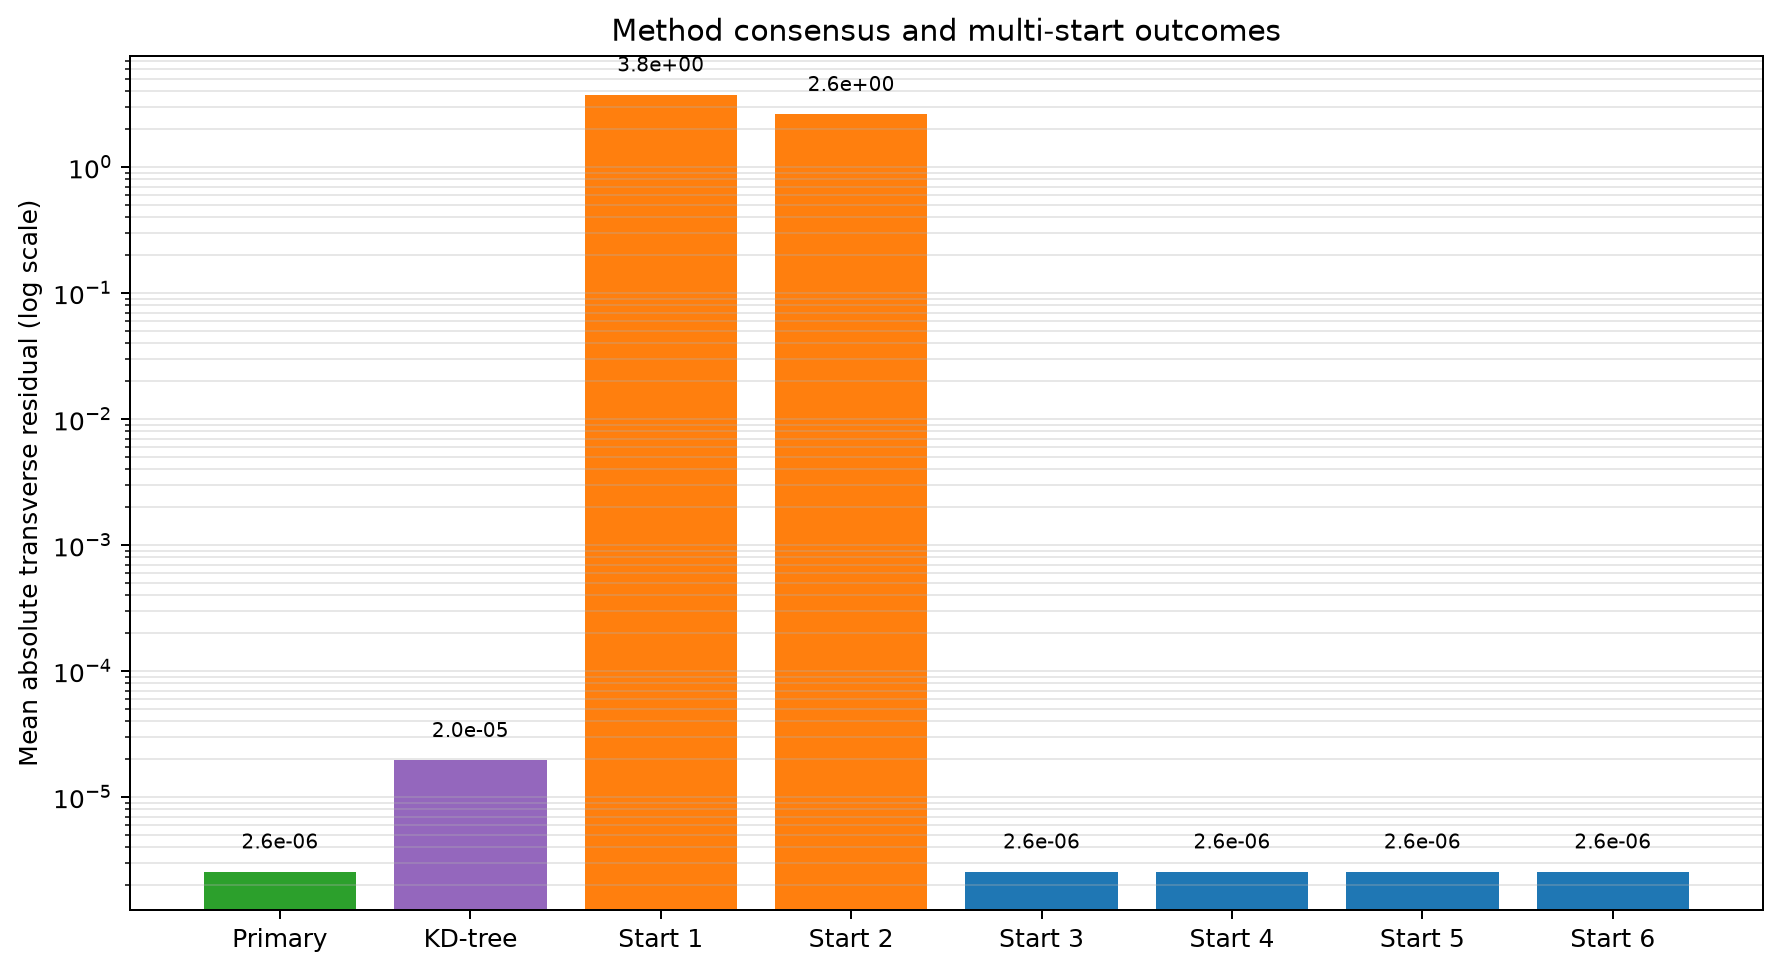
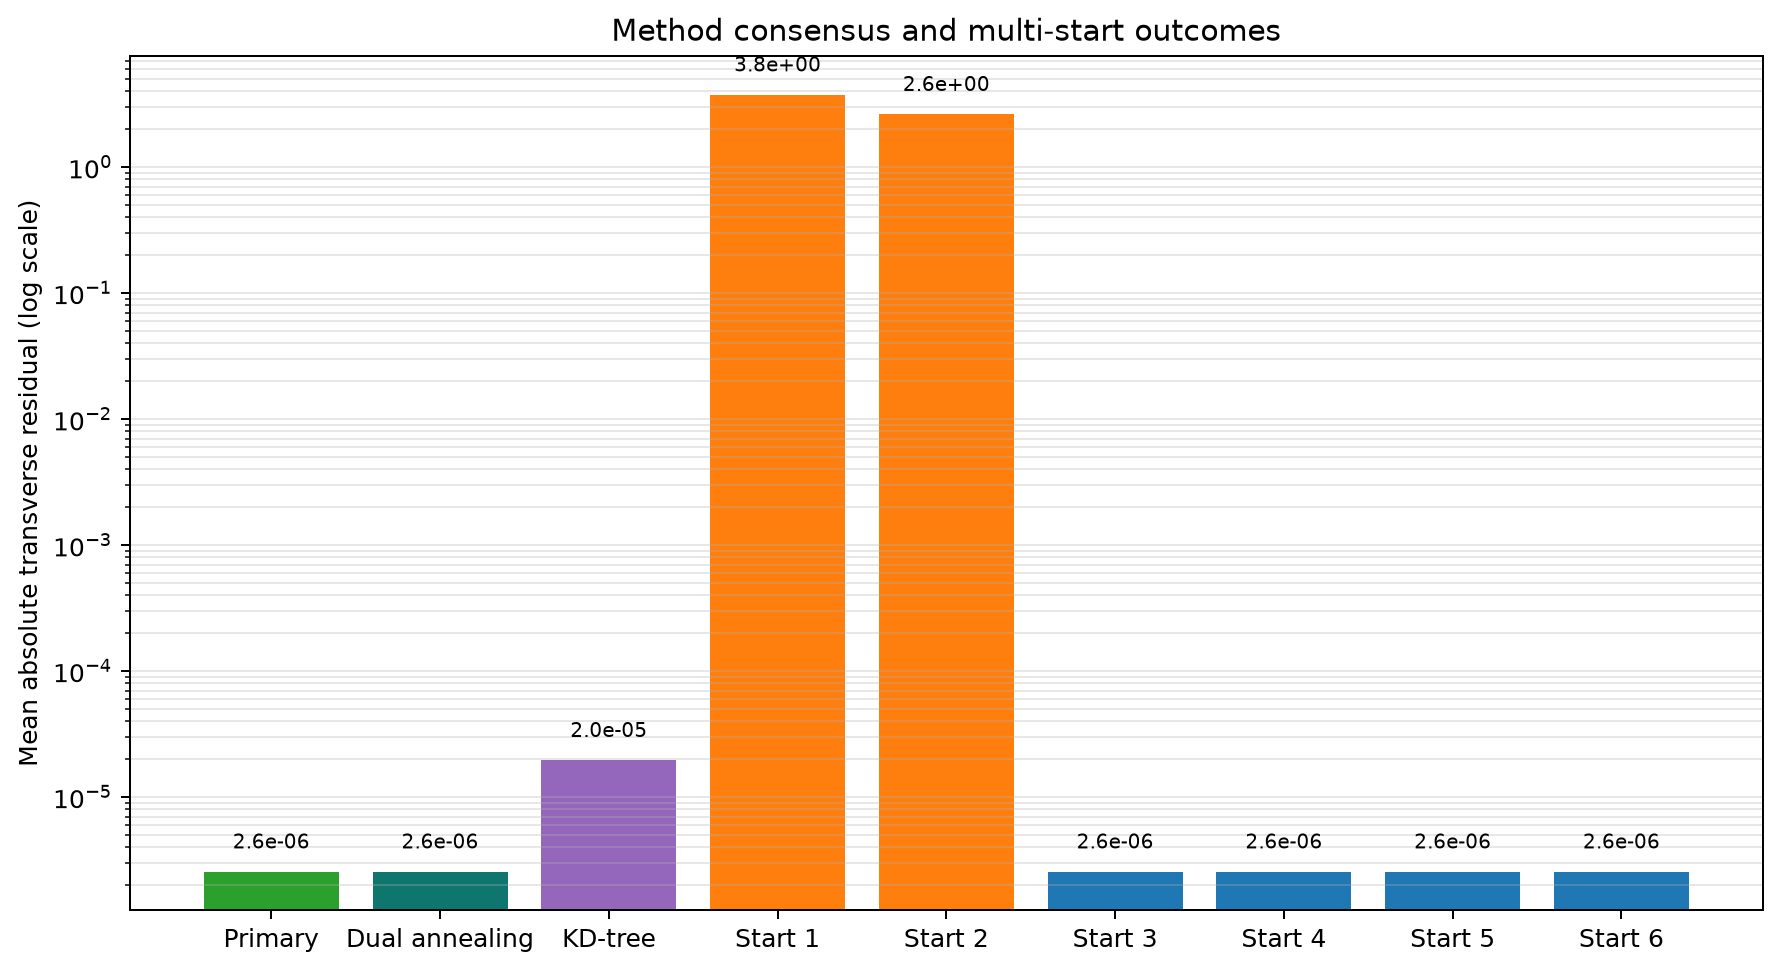
Add automated test suite (formula, synthetic recovery, regression) and second independent global optimizer for cross-validation

diff --git a/src/fit_curve.py b/src/fit_curve.py
@@ -24,7 +24,7 @@ import matplotlib
 matplotlib.use("Agg")
 import matplotlib.pyplot as plt
 import numpy as np
-from scipy.optimize import differential_evolution, least_squares, minimize_scalar
+from scipy.optimize import differential_evolution, dual_annealing, least_squares, minimize_scalar
 from scipy.spatial import cKDTree
 
 
@@ -167,7 +167,28 @@ def closed_form_loss(parameters: np.ndarray, data: np.ndarray) -> float:
     return float(np.mean(np.abs(residuals)))
 
 
-def fit_primary_de_rotation(data: np.ndarray, seed: int = 2026, initial_theta: float | None = None) -> tuple[np.ndarray, float]:
+def polish_closed_form_solution(initial_parameters: np.ndarray, data: np.ndarray) -> tuple[np.ndarray, float]:
+    """Polish a global-search candidate with bounded least squares on closed-form residuals."""
+    lower_bounds = [b[0] for b in BOUNDS]
+    upper_bounds = [b[1] for b in BOUNDS]
+
+    def residual_vector(p: np.ndarray) -> np.ndarray:
+        return recover_t_and_residuals(p, data)[1]
+
+    result = least_squares(
+        residual_vector,
+        x0=initial_parameters,
+        bounds=(lower_bounds, upper_bounds),
+        ftol=1e-15,
+        xtol=1e-15,
+        gtol=1e-15,
+    )
+    return result.x, float(np.mean(np.abs(result.fun)))
+
+
+def fit_primary_de_rotation(
+    data: np.ndarray, seed: int = 2026, initial_theta: float | None = None, maxiter: int = 300
+) -> tuple[np.ndarray, float]:
     """Primary Fit: Global Differential Evolution + Non-linear Least-Squares polish on closed-form residuals.
 
     Parameters
@@ -186,29 +207,28 @@ def fit_primary_de_rotation(data: np.ndarray, seed: int = 2026, initial_theta: f
         args=(data,),
         seed=seed,
         popsize=15,
-        maxiter=300,
+        maxiter=maxiter,
         tol=1e-10,
         updating="immediate",
         workers=1,
     )
 
-    lower_bounds = [b[0] for b in BOUNDS]
-    upper_bounds = [b[1] for b in BOUNDS]
+    return polish_closed_form_solution(de_result.x, data)
 
-    def residual_vector(p: np.ndarray) -> np.ndarray:
-        return recover_t_and_residuals(p, data)[1]
 
-    ls_result = least_squares(
-        residual_vector,
-        x0=de_result.x,
-        bounds=(lower_bounds, upper_bounds),
-        ftol=1e-15,
-        xtol=1e-15,
-        gtol=1e-15,
+def fit_dual_annealing_rotation(
+    data: np.ndarray, seed: int = 2026, maxiter: int = 300
+) -> tuple[np.ndarray, float]:
+    """Independent global fit using dual annealing, then the same local least-squares polish."""
+    result = dual_annealing(
+        closed_form_loss,
+        bounds=BOUNDS,
+        args=(data,),
+        seed=seed,
+        maxiter=maxiter,
+        no_local_search=True,
     )
-
-    final_loss = float(np.mean(np.abs(ls_result.fun)))
-    return ls_result.x, final_loss
+    return polish_closed_form_solution(result.x, data)
 
 
 # --- 4. Multi-Start Robustness Check ---
@@ -456,20 +476,24 @@ def main() -> None:
     print(f"Successfully loaded {len(data):,} points from: data/xy_data.csv\n")
 
     # Step 2: Primary Method (Closed-Form Rotation Decoupling)
-    print("[1/4] Running Primary Method: Closed-Form Rotation-Inversion Fit (takes a moment)...")
+    print("[1/5] Running Primary Method: Closed-Form Rotation-Inversion Fit (takes a moment)...")
     pca_theta = estimate_theta_via_pca(data)
     prim_params, prim_loss = fit_primary_de_rotation(data, initial_theta=pca_theta)
 
     # Step 3: Multi-Start Robustness Check
-    print("[2/4] Running Multi-Start Robustness Check (6 diverse parameter regions)...")
+    print("[2/5] Running Multi-Start Robustness Check (6 diverse parameter regions)...")
     multistart_results = run_multistart_robustness_check(data)
 
     # Step 4: Secondary Method (KD-Tree Nearest Neighbor Cross-Check)
-    print("[3/4] Running Secondary Method: KD-Tree (12,000 samples) Cross-Check (takes a moment)...")
+    print("[3/5] Running Independent Global Check: Dual Annealing (takes a moment)...")
+    annealing_params, annealing_loss = fit_dual_annealing_rotation(data)
+
+    # Step 5: Secondary Method (KD-Tree Nearest Neighbor Cross-Check)
+    print("[4/5] Running Secondary Method: KD-Tree (12,000 samples) Cross-Check (takes a moment)...")
     kdt_params, kdt_loss = fit_kdtree(data, n_samples=N_CURVE_SAMPLES)
 
     # Step 5: Verification & Comprehensive Metrics
-    print("[4/4] Computing Comprehensive Fit Metrics & Diagnostics...")
+    print("[5/5] Computing Comprehensive Fit Metrics & Diagnostics...")
     metrics = compute_fit_metrics(data, prim_params, VERIFIED_PARAMETERS)
 
     print("\n" + "=" * 75)
@@ -487,6 +511,8 @@ def main() -> None:
     print(f"   PCA initial theta estimate: {pca_theta:.2f} deg")
     print(f"   Primary DE convergence loss (mean |residual|): {prim_loss:.6e}")
     print(f"   Primary Fitted (theta, M, X): ({prim_params[0]:.6f}, {prim_params[1]:.6f}, {prim_params[2]:.6f})")
+    print(f"   Dual annealing convergence loss (mean |residual|): {annealing_loss:.6e}")
+    print(f"   Dual Annealing Fitted (theta, M, X): ({annealing_params[0]:.6f}, {annealing_params[1]:.6f}, {annealing_params[2]:.6f})")
     print(f"   KD-tree nearest-neighbour Manhattan loss: {kdt_loss:.6e}")
     print(f"   KD-tree Fitted (theta, M, X): ({kdt_params[0]:.6f}, {kdt_params[1]:.6f}, {kdt_params[2]:.6f})")
     print(f"   Uniform-sampled L1 (expected vs fitted): {metrics['uniform_sample_l1_distance']:.6e}")

diff --git a/tests/test_fit_curve.py b/tests/test_fit_curve.py
@@ -1,0 +1,73 @@
+"""Deterministic regression and generalisation checks for the fitting pipeline."""
+
+from __future__ import annotations
+
+import math
+import sys
+from pathlib import Path
+
+import numpy as np
+import pytest
+
+ROOT = Path(__file__).resolve().parents[1]
+sys.path.insert(0, str(ROOT / "src"))
+
+from fit_curve import DATA_PATH, T_MAX, T_MIN, curve_at_t, fit_primary_de_rotation, load_dataset
+
+
+def test_curve_formula_matches_independent_math() -> None:
+    """Check one curve point against a direct stdlib implementation of the equation."""
+    t, theta_deg, m, x_offset = 17.25, 32.5, -0.021, 41.0
+    theta = math.radians(theta_deg)
+    wave = math.exp(m * abs(t)) * math.sin(0.3 * t)
+    expected = np.array([
+        t * math.cos(theta) - wave * math.sin(theta) + x_offset,
+        42.0 + t * math.sin(theta) + wave * math.cos(theta),
+    ])
+    actual = curve_at_t(t, theta_deg, m, x_offset)[0]
+    np.testing.assert_allclose(actual, expected, rtol=0.0, atol=1e-10)
+
+
+def test_real_csv_has_expected_shape_and_finite_plausible_values() -> None:
+    """Guard against a missing, corrupted, or incorrectly parsed assignment dataset."""
+    data = load_dataset(DATA_PATH)
+    assert data.shape == (1_500, 2)
+    assert np.isfinite(data).all()
+    assert data[:, 0].min() > -100 and data[:, 0].max() < 200
+    assert data[:, 1].min() > -100 and data[:, 1].max() < 200
+
+
+def write_synthetic_csv(path: Path, parameters: tuple[float, float, float], seed: int) -> None:
+    """Create an unordered synthetic point cloud using a known parameter set."""
+    rng = np.random.default_rng(seed)
+    t = rng.uniform(T_MIN, T_MAX, size=240)
+    points = curve_at_t(t, *parameters)
+    rng.shuffle(points)
+    np.savetxt(path, points, delimiter=",", header="x,y", comments="")
+
+
+@pytest.mark.parametrize(
+    ("parameters", "seed"),
+    [((12.0, -0.03, 20.0), 17), ((45.0, 0.04, 90.0), 29)],
+)
+def test_closed_form_pipeline_recovers_unseen_synthetic_parameters(
+    tmp_path: Path, parameters: tuple[float, float, float], seed: int
+) -> None:
+    """Recover two non-assignment parameter sets through the actual DE-plus-polish pipeline."""
+    csv_path = tmp_path / "synthetic.csv"
+    write_synthetic_csv(csv_path, parameters, seed)
+    recovered, loss = fit_primary_de_rotation(load_dataset(csv_path), seed=seed, maxiter=160)
+    assert loss < 1e-8
+    assert abs(recovered[0] - parameters[0]) <= 0.1
+    assert abs(recovered[1] - parameters[1]) <= 1e-3
+    assert abs(recovered[2] - parameters[2]) <= 0.5
+
+
+@pytest.mark.slow
+def test_real_data_pipeline_recovers_reported_parameters() -> None:
+    """Catch a regression that changes the established assignment answer."""
+    recovered, loss = fit_primary_de_rotation(load_dataset(DATA_PATH), seed=2026)
+    assert loss < 1e-4
+    assert abs(recovered[0] - 30.0) <= 0.1
+    assert abs(recovered[1] - 0.03) <= 1e-3
+    assert abs(recovered[2] - 55.0) <= 0.5

diff --git a/scripts/generate_visuals.py b/scripts/generate_visuals.py
@@ -20,6 +20,7 @@ from fit_curve import (  # noqa: E402
     VERIFIED_PARAMETERS,
     closed_form_loss,
     curve_points,
+    fit_dual_annealing_rotation,
     fit_kdtree,
     fit_primary_de_rotation,
     load_dataset,
@@ -55,12 +56,13 @@ def main() -> None:
 
     # Evaluate every reported optimizer outcome with the same closed-form residual.
     primary_params, _ = fit_primary_de_rotation(data)
+    annealing_params, _ = fit_dual_annealing_rotation(data)
     kdtree_params, _ = fit_kdtree(data)
     multi = run_multistart_robustness_check(data)
-    labels = ["Primary", "KD-tree"] + [f"Start {i + 1}" for i in range(len(multi))]
-    params = [primary_params, kdtree_params] + [result["fitted"] for result in multi]
+    labels = ["Primary", "Dual annealing", "KD-tree"] + [f"Start {i + 1}" for i in range(len(multi))]
+    params = [primary_params, annealing_params, kdtree_params] + [result["fitted"] for result in multi]
     losses = [closed_form_loss(np.asarray(p), data) for p in params]
-    colors = ["tab:green", "tab:purple"] + ["tab:orange" if loss > 1e-4 else "tab:blue" for loss in losses[2:]]
+    colors = ["tab:green", "#0f766e", "tab:purple"] + ["tab:orange" if loss > 1e-4 else "tab:blue" for loss in losses[3:]]
 
     fig, ax = plt.subplots(figsize=(10, 5.5), dpi=160)
     bars = ax.bar(labels, losses, color=colors)

diff --git a/README.md b/README.md
@@ -8,7 +8,7 @@
 
 ## Contents
 
-[Problem](#problem) · [Approach](#approach) · [Method](#method) · [Validation](#validation) · [Visual Check](#visual-check) · [Interactive Explorer](#interactive-explorer) · [Results](#results) · [Repository Structure](#repository-structure) · [Setup](#setup--execution)
+[Problem](#problem) · [Approach](#approach) · [Method](#method) · [Validation](#validation) · [Visual Check](#visual-check) · [Interactive Explorer](#interactive-explorer) · [Results](#results) · [Repository Structure](#repository-structure) · [Tests](#tests) · [Setup](#setup--execution)
 
 ## Problem
 
@@ -65,6 +65,7 @@ The transverse residual $r_i = v_i - e^{M|u_i|}\sin(0.3u_i)$ is then a pure scal
 1. **Global search**: `scipy.optimize.differential_evolution` (population=15, tol=1e-10)
 2. **Local polish**: `scipy.optimize.least_squares` (ftol=xtol=gtol=1e-15)
 3. **PCA warm start**: `estimate_theta_via_pca()` provides the LS initial θ from the data's principal axis
+4. **Independent global check**: `scipy.optimize.dual_annealing`, followed by the same bounded local polish, independently reaches the reported basin.
 
 ### Secondary: KD-Tree Nearest-Neighbour (cross-check only)
 
@@ -166,6 +167,7 @@ X     = 55
 | Method | Fitted θ | Fitted M | Fitted X | Convergence loss |
 |:---|:---|:---|:---|:---|
 | **Primary (closed-form + DE + LS)** | 29.9999729° | 0.02999999 | 54.9999982 | 2.56 × 10⁻⁶ |
+| **Independent (closed-form + dual annealing + LS)** | 29.9999729° | 0.02999999 | 54.9999982 | 2.56 × 10⁻⁶ |
 | **Secondary (KD-tree 12k)** | 29.9999803° | 0.02999997 | 54.9999680 | 1.70 × 10⁻³ *(nearest-neighbour, not accuracy)* |
 | **Reported** | **30°** | **0.03** | **55** | — |
 
@@ -200,13 +202,16 @@ flam-rd-curve-fit/
 │   └── interactive_explorer.html # Dependency-free browser explorer
 ├── scripts/
 │   └── generate_visuals.py     # Generates README visual supplements
+├── tests/
+│   └── test_fit_curve.py        # Formula, synthetic recovery, and regression tests
 ├── screenshots/
 │   └── desmos_curve.png        # Desmos screenshot (manual verification)
 ├── src/
 │   ├── fit_curve.py            # Full fitting pipeline (primary method, validation, metrics)
 │   └── curve_explorer.py       # Interactive slider explorer (standalone)
 ├── README.md
-└── requirements.txt            # numpy, scipy, matplotlib
+├── requirements.txt            # numpy, scipy, matplotlib
+└── requirements-dev.txt        # pytest and runtime requirements for tests
 ```
 
 ### Key functions in `fit_curve.py`
@@ -219,7 +224,9 @@ flam-rd-curve-fit/
 | `curve_points()` | Create a dense uniform curve sampling |
 | `recover_t_and_residuals()` | Closed-form R⁻¹ — recovers exact t per point |
 | `closed_form_loss()` | Mean absolute transverse-residual objective |
+| `polish_closed_form_solution()` | Shared bounded least-squares polish for global candidates |
 | `fit_primary_de_rotation()` | Primary fit: DE global + LS polish |
+| `fit_dual_annealing_rotation()` | Independent global fit: dual annealing + LS polish |
 | `run_multistart_robustness_check()` | 6-start basin verification |
 | `kdtree_manhattan_loss()` | Secondary sampled Manhattan objective |
 | `fit_kdtree()` | Secondary KD-tree cross-check |
@@ -227,6 +234,17 @@ flam-rd-curve-fit/
 | `compute_fit_metrics()` | Full metric suite |
 | `save_curve_plot()` | Save the data/curve overlay image |
 | `save_diagnostics_plot()` | Save residual diagnostic charts |
+
+---
+
+## Tests
+
+The pytest suite independently checks the curve formula against plain Python `math`, validates the 1,500-row CSV, recovers two unseen synthetic parameter sets `(12°, -0.03, 20)` and `(45°, 0.04, 90)`, and regression-checks the reported real-data result. The synthetic cases use the same closed-form differential-evolution-plus-polish fitting function as the assignment run.
+
+```powershell
+pip install -r requirements-dev.txt
+python -m pytest tests/ -v
+```
 
 ---
 
